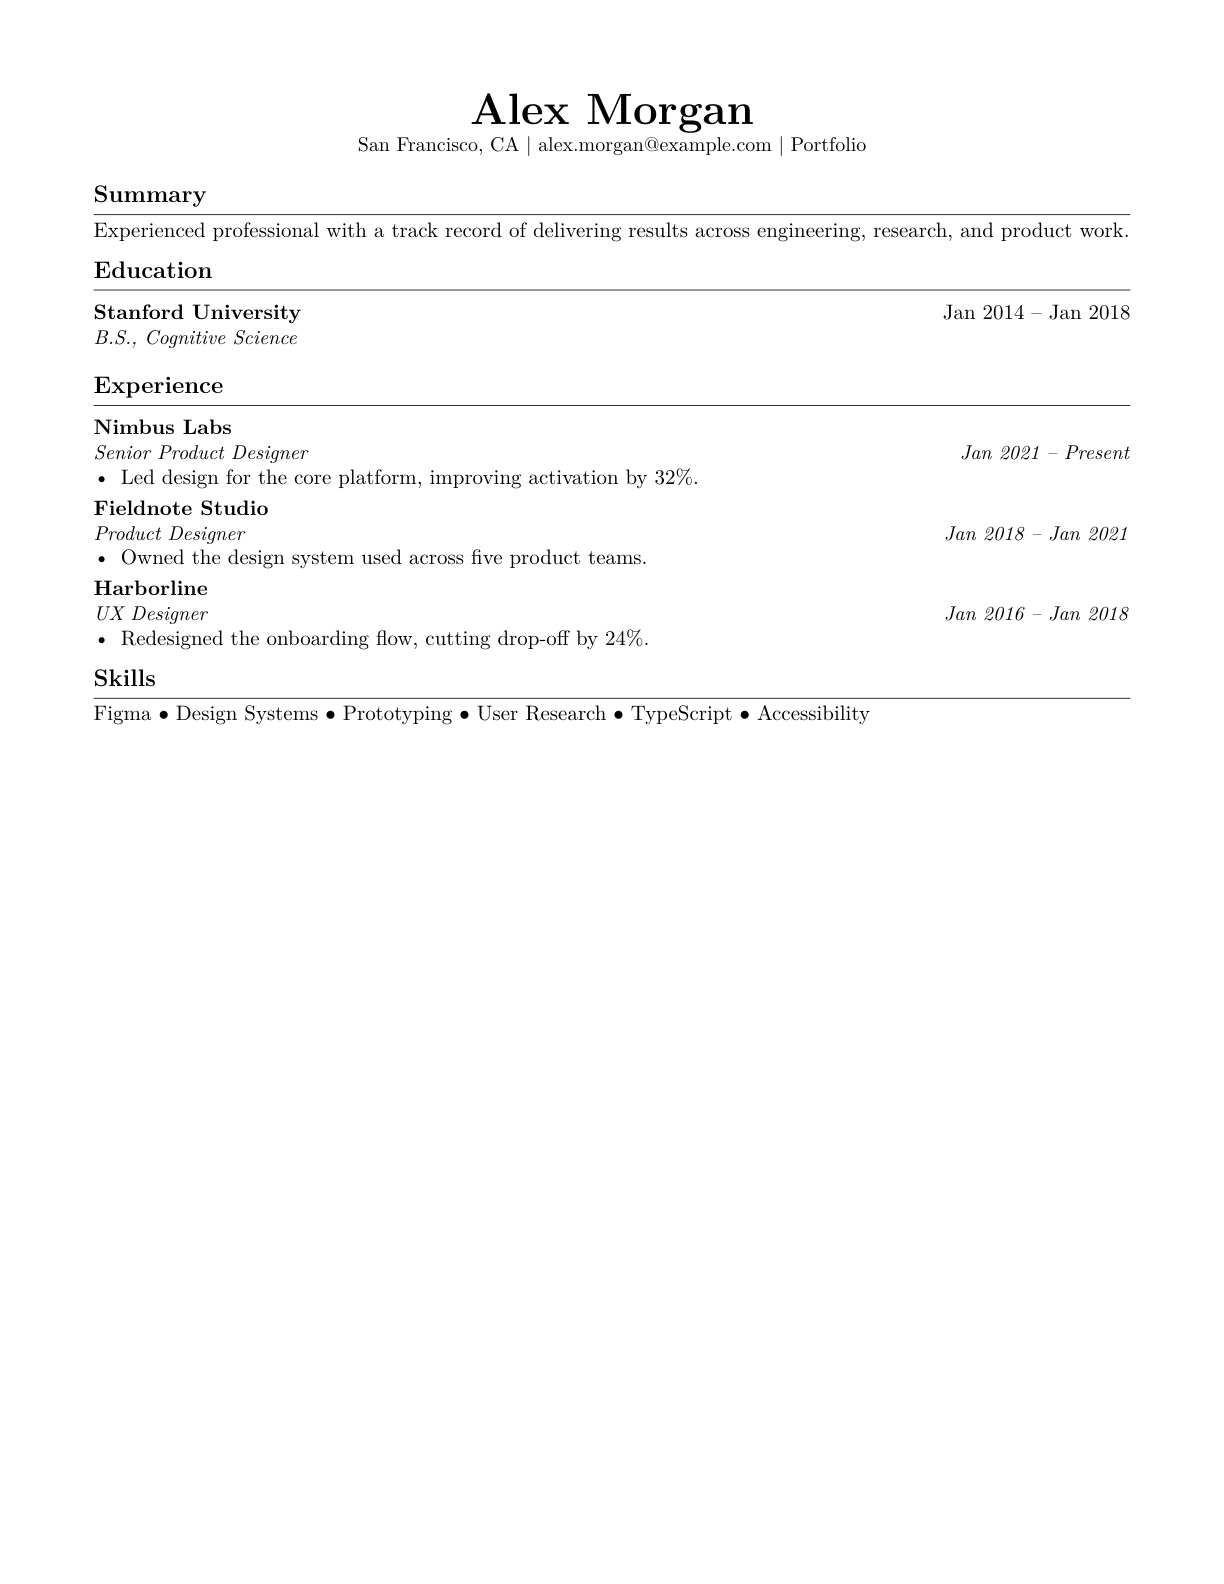
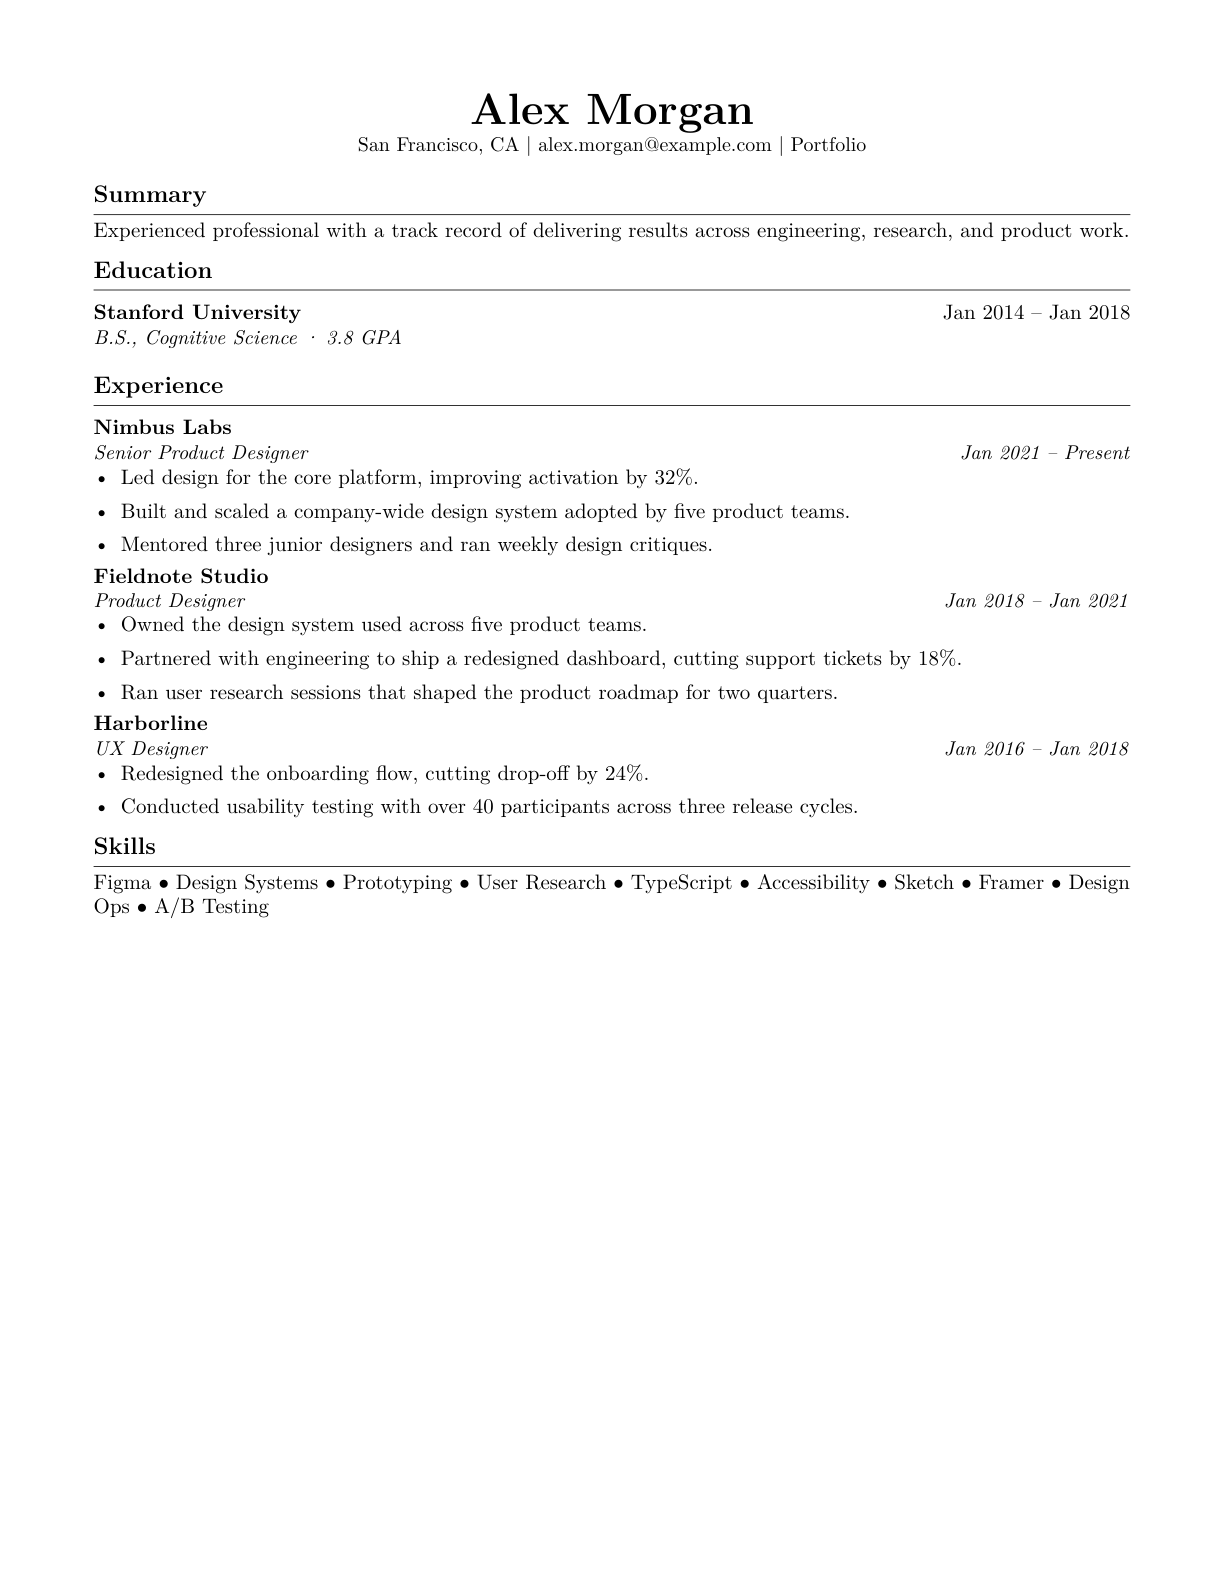
Rename ATS Safe template to LaTeX, add more content to sample previews
The LaTeX-rendered template is now labeled "LaTeX" instead of "ATS Safe" -- it's the one thing that template does that no other one does. Regenerated all 6 static sample preview images with a fuller sample profile (more experience bullets, more skills) so they read as realistic resumes instead of half-empty pages.

diff --git a/frontend/features/resumes/templates/registry.tsx b/frontend/features/resumes/templates/registry.tsx
@@ -42,7 +42,7 @@ export const TEMPLATE_REGISTRY: Record<TemplateSlug, TemplateDefinition> = {
   },
   ats_safe: {
     slug: "ats_safe",
-    name: "ATS Safe",
+    name: "LaTeX",
     description: "The most conservative layout, built purely for maximum parser compatibility.",
     // Deliberately not #1a1a1a -- that's Classic's (and Compact's) default,
     // and both are already single-column/minimal, so an identical accent

diff --git a/backend/alembic/versions/a430c243bb41_resumes_rename_ats_safe_template_to_.py b/backend/alembic/versions/a430c243bb41_resumes_rename_ats_safe_template_to_.py
@@ -1,0 +1,26 @@
+"""resumes: rename ats_safe template display name to LaTeX
+
+Revision ID: a430c243bb41
+Revises: d4c8708b653d
+Create Date: 2026-08-23 00:00:00.000000
+
+"""
+from typing import Sequence, Union
+
+from alembic import op
+
+# revision identifiers, used by Alembic.
+revision: str = 'a430c243bb41'
+down_revision: Union[str, Sequence[str], None] = 'd4c8708b653d'
+branch_labels: Union[str, Sequence[str], None] = None
+depends_on: Union[str, Sequence[str], None] = None
+
+
+def upgrade() -> None:
+    """Upgrade schema."""
+    op.execute("UPDATE resume_templates SET name = 'LaTeX' WHERE slug = 'ats_safe'")
+
+
+def downgrade() -> None:
+    """Downgrade schema."""
+    op.execute("UPDATE resume_templates SET name = 'ATS Safe' WHERE slug = 'ats_safe'")

diff --git a/backend/features/resumes/constants.py b/backend/features/resumes/constants.py
@@ -17,7 +17,7 @@ ADDITIONAL_TEMPLATES = [
 ATS_SAFE_TEMPLATES = [
     (
         "ats_safe",
-        "ATS Safe",
+        "LaTeX",
         "The most conservative layout, built purely for maximum parser compatibility.",
     ),
 ]
